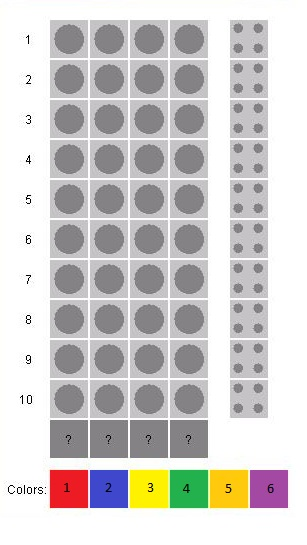
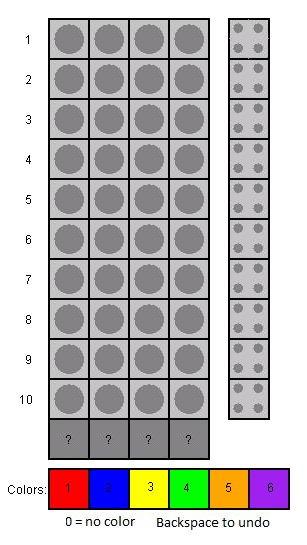
Add files via upload

Changed region(s): [[0.1466, 0.0312, 0.9674, 0.967], [0.7329, 0.0312, 0.8795, 0.7798]]

diff --git a/Mastermind/FrontEnd.py b/Mastermind/FrontEnd.py
@@ -2,52 +2,74 @@
 """
 TODO:
 1)Decide how the player should input their guess
-    A. drag and drop the colors into the corresponding positions
-        a. need to swap out key events for mouse events
     B. input corresponding numbers in a L>R order
 2)Need a backspace/delete function to fix mistakes before submitting guess
+    A. This needs to replace the square with something like the same background
+        or just greying it out?
 3)Need a submit button or on 'ENTER' or both
-4)Ensure that only the proper row can have guesses submitted on it
-
+    A.Ensure that only the proper row can have guesses submitted on it
+        i. Will only change row after "ENTER/SUBMIT" were hit
 """
 import pygame
 pygame.init()
 
 #display attributes
-display_width = 350
-display_height = 600
-
+display_width = 308
+display_height = 546
+#each box is exactly 38x38 pixels (
+#REMINDER: 2 pixels between each box + 1 for next boxes pixel position = +3 to calculations
+guessboxW = 38
+guessboxH = 38
+extrapixels = 3
+#Some kinda offset made the first box's position 40x40
+guessboxX = 40
+guessboxY = 40
+#top-left pixel position of top-left box
+box11X = 50
+box11Y = 20
+#top-left pixel position of top score box
+pegboxX = 230
+pegboxY = 20
+#t-l pixel of left most answer box
+answerboxX = 50
+answerboxY = 420
 #Color section
 black = (0, 0, 0)
-red = (255, 0, 0)
-green = (0, 255, 0)
-blue = (0, 0, 255)
 white = (255, 255, 255)
-
+red = (255, 0, 0)
+blue = (0, 0, 255)
+yellow = (255, 255, 0)
+green = (0, 255, 0)
+orange = (255, 165, 0)
+purple = (160, 32, 240)
+#default segment color
+gsegcolor = black
 #display actual
 gameDisplay = pygame.display.set_mode((display_width, display_height))
 pygame.display.set_caption('Caption')       #display window caption
 clock = pygame.time.Clock()                 #clock for something
-image = pygame.image.load('board.jpg')     #image to be displayed
-imagewidth = 307
-imageheight = 545
+image = pygame.image.load('board.jpg')      #image to be displayed
+imagewidth = 307#307
+imageheight = 545#545
 
 #image placement(based on it's top-left/origin pixel)
-x = 1
-y = 1
-print(x,y)
-#max/min x/y values the image can go with respect to the size of the images size
-xMax = display_width - imagewidth       #397 for pewpew
-yMax = display_height - imageheight     #332 for pewpew
+x = 0
+y = 0
 
+#max/min x/y values the image can go with respect to the size of the images size
+xMax = display_width - imagewidth
+yMax = display_height - imageheight
+
+#x changes 4 times per guess
+#y changes 1 time per guess
 x_change = 0
 y_change = 0
-car_speed = 0
+gameDisplay.fill(white)
 gameExit = False
 
 
 #puts an image in the display
-def pewpew(x, y):
+def background(x, y):
     gameDisplay.blit(image, (x, y))
 
 
@@ -59,7 +81,7 @@ def text_objects(text, font):
 def message_display(text):
     largeText = pygame.font.Font('freesansbold.ttf', 115)
     TextSurf, TextRect = text_objects(text, largeText)
-    TextRect.center = ((display_width/2),(display_height/2))
+    TextRect.center = ((display_width/2), (display_height/2))
     gameDisplay.blit(TextSurf, TextRect)
 
 
@@ -67,55 +89,76 @@ def message_display(text):
 def winMessage():
     message_display('You WIN!')
 
+
+#updateboard(x, y, w, h, color
+def updateboard(guessboxX, guessboxY, guessboxW, guessboxH, color):
+    #draws the color guess over the corresponding box
+    #pygame.draw.rect(where or what object, color, locations[x, y, w, h])
+    pygame.draw.rect(gameDisplay, color, [guessboxX, guessboxY, guessboxW, guessboxH])
+    list = []
+    print("len", len(list))
+    if len(list) < 4:
+        list.append(color)
+    for i in list:
+        print("list", i)
+
+
 while not gameExit:
     for event in pygame.event.get():
         if event.type == pygame.QUIT:
             gameExit = True
 
-        #key catching for moving stuff/needs to become mouse reading
-        #THIS NEEDS TO BECOME MOUSE, ENTER, AND BACKSPACE EVENTS
-        #KEYDOWN is for pressing down on the key
-        if event.type == pygame.KEYDOWN:
-            if event.key == pygame.K_LEFT:
-                x_change = -5
-            if event.key == pygame.K_RIGHT:
-                x_change = 5
-            if event.key == pygame.K_UP:
-                y_change = -5
-            if event.key == pygame.K_DOWN:
-                y_change = 5
-        #KEYUP is for releasing a pressed key
-        if event.type == pygame.KEYUP:
-            if event.key == pygame.K_LEFT or event.key == pygame.K_RIGHT:
-                x_change = 0
-            if event.key == pygame.K_DOWN or event.key == pygame.K_UP:
-                y_change = 0
 
-    x += x_change
-    y += y_change
+    #this is for handling the guess segments being given from the user
+    #segment counter = which subpart of the guess are they inputting
+    background(x, y)
+    segcounter = 1
+    turncount = 1
+    if turncount < 10:
+        for event in pygame.event.get():
+            if event.type == pygame.QUIT:
+                gameExit = True
+            if event.type == pygame.KEYDOWN:
+                background(x, y)
+                if event.key == pygame.K_0 or event.key == pygame.K_KP0:
+                    gsegcolor = white
+                    updateboard(box11X, box11Y, guessboxW, guessboxH, gsegcolor)
+                    segcounter += 1
+                if event.key == pygame.K_1 or event.key == pygame.K_KP1:
+                    gsegcolor = red
+                    updateboard(box11X, box11Y, guessboxW, guessboxH, gsegcolor)
+                    segcounter += 1
+                if event.key == pygame.K_2 or event.key == pygame.K_KP2:
+                    gsegcolor = blue
 
-    gameDisplay.fill(white)        #displays a background color
-    #image boundary catcher
-    if x > xMax:
-        x = xMax - 1
-        winMessage()
-    elif x < 0:
-        x = 1
-        winMessage()
-    elif y > yMax:
-        y = yMax - 1
-        winMessage()
-    elif y < 0:
-        y = 1
-        winMessage()
+                    segcounter += 1
+                if event.key == pygame.K_3 or event.key == pygame.K_KP3:
+                    gsegcolor = yellow
 
-    pewpew(x, y)
+                    segcounter += 1
+                if event.key == pygame.K_4 or event.key == pygame.K_KP4:
+                    gsegcolor = green
 
+                    segcounter += 1
+                if event.key == pygame.K_5 or event.key == pygame.K_KP5:
+                    gsegcolor = orange
 
+                    segcounter += 1
+                if event.key == pygame.K_6 or event.key == pygame.K_KP6:
+                    gsegcolor = purple
 
+                    segcounter += 1
+                if event.key == pygame.K_BACKSPACE or event.key == pygame.K_DELETE or event.key == pygame.K_LEFT:
+                    gsegcolor = white
+
+                    segcounter -= 1
+                print(event)
+                print(gsegcolor)
+
+    else:
+        print("display answer")
 
     pygame.display.update()
-    clock.tick(60)
 pygame.quit()
 quit()
 
